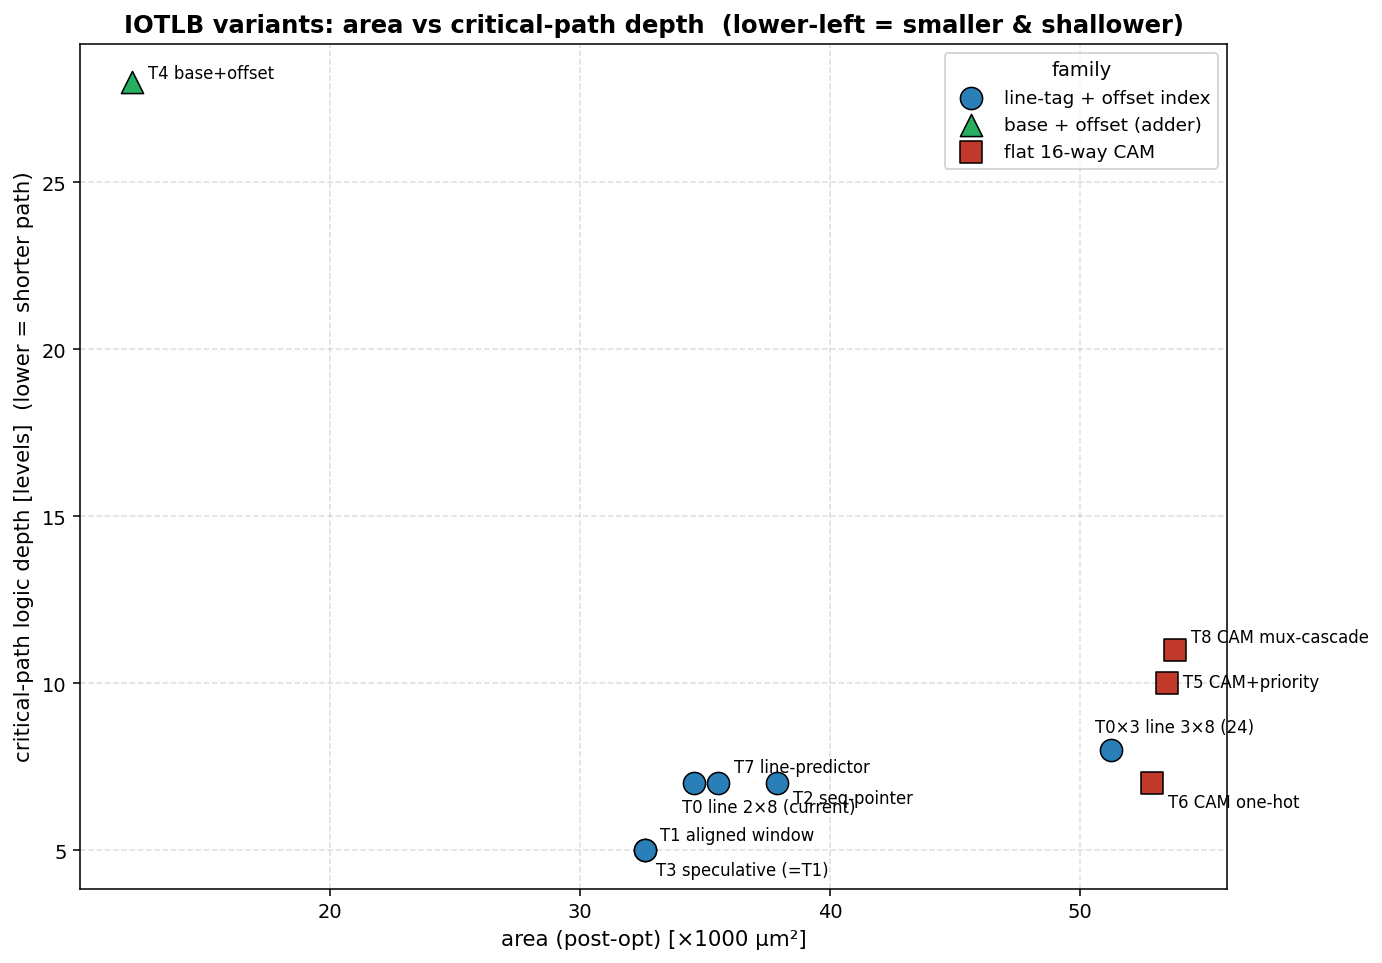
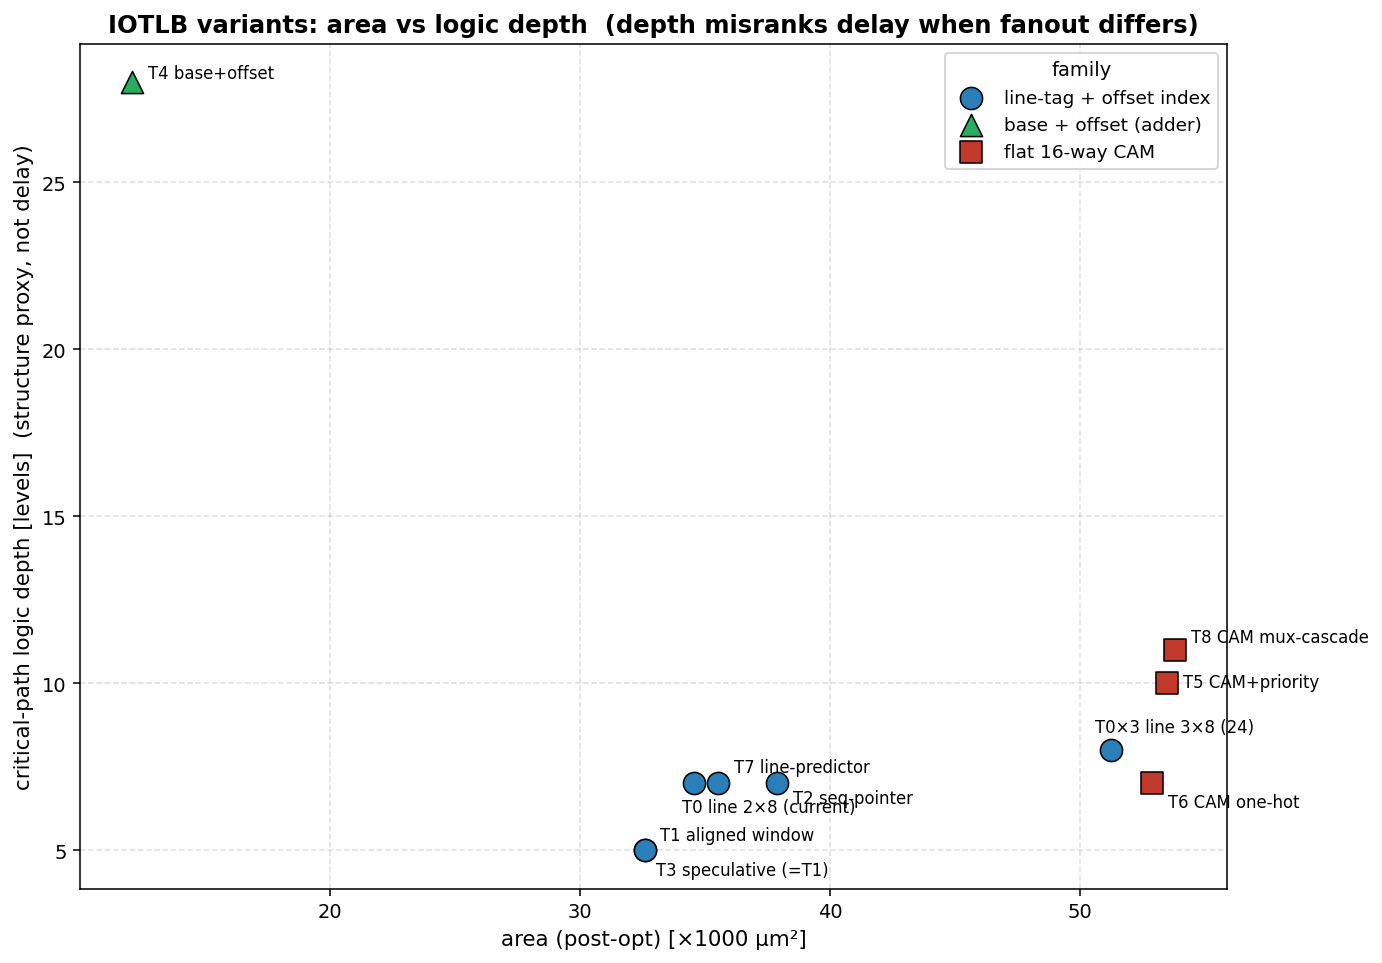
cache_study: add area-vs-critical-path-delay[ns] scatter (physical metric)
ns (= 1000/Fmax_postopt) is the physically accurate critical-path metric: same logic
depth can differ in delay by cell type / drive / fanout. Our own data proves it -- T8
(depth 11) is FASTER than T5 (depth 10) due to fanout, so depth misranks them. ns also
avoids the wire-rate confusion that 'MHz' invites. Add area_vs_delay.png as the PRIMARY
plot in both scripts (repo JSON-based + Colab inlined); keep Fmax (frequency view) and
depth (P&R-noise-robust structure proxy, with a caveat note). Absolute ns is optimistic
(ideal clock, no CTS/route) -> relative comparison.

Changed region(s): [[0.0622, 0.0, 0.8712, 0.0623], [0.0, 0.1558, 0.0311, 0.81]]

diff --git a/cache_study/figs/gen_iotlb_scatter.py b/cache_study/figs/gen_iotlb_scatter.py
@@ -34,7 +34,8 @@ FAM = {"line": ("#2a7fb8", "o", "line-tag + offset index"),
 rows = []
 for v, (lab, fam) in VARS.items():
     d = json.load(open(os.path.join(RES, f"{v}.json")))
-    rows.append(dict(lab=lab, fam=fam, area=d["area_um2"], fmax=d["fmax_mhz"], depth=d["logic_depth"]))
+    rows.append(dict(lab=lab, fam=fam, area=d["area_um2"], fmax=d["fmax_mhz"],
+                     depth=d["logic_depth"], delay=1000.0 / d["fmax_mhz"]))  # delay[ns]=1000/Fmax
 
 
 def label_offsets(rows, key):
@@ -51,6 +52,14 @@ def label_offsets(rows, key):
             "T6 CAM one-hot": (6, -13), "T8 CAM mux-cascade": (8, 3),
             "T5 CAM+priority": (8, -3), "T0×3 line 3×8 (24)": (-8, 9),
             "T4 base+offset": (8, 2),
+        }
+    elif key == "delay":
+        tweak = {
+            "T3 speculative (=T1)": (6, 6), "T1 aligned window": (6, -13),
+            "T0 line 2×8 (current)": (-6, 9), "T7 line-predictor": (8, -10),
+            "T2 seq-pointer": (8, 4), "T6 CAM one-hot": (8, 5),
+            "T8 CAM mux-cascade": (8, -3), "T5 CAM+priority": (8, 3),
+            "T6 CAM one-hot": (8, -13), "T0×3 line 3×8 (24)": (-10, 10), "T4 base+offset": (8, 2),
         }
     else:  # depth
         tweak = {
@@ -90,11 +99,19 @@ def scatter(key, ylabel, title, fname, ylim=None):
     print("wrote", p)
 
 
-# (1) area vs Fmax -- note arrows toward "better" (smaller area, higher Fmax)
+# (1) PRIMARY: area vs critical-path DELAY [ns] = 1000/Fmax -- the physically accurate
+#     metric (real cell-delay sum, not just levels). "ns" (not "MHz") also avoids the
+#     wire-rate confusion. NOTE: ideal-clock/no-CTS-route -> absolute ns optimistic, use
+#     for RELATIVE comparison.
+scatter("delay", "critical-path delay (post-opt, sky130 hd) [ns]  (lower = faster)",
+        "IOTLB variants: area vs critical-path delay  (lower-left = smaller & faster)",
+        "iotlb_area_delay.png")
+# (2) area vs Fmax (= 1000/delay; same info, frequency view)
 scatter("fmax", "Fmax (post-opt, sky130 hd) [MHz]",
         "IOTLB variants: area vs Fmax  (lower-left→upper-left = smaller & faster)",
         "iotlb_area_fmax.png")
-# (2) area vs logic depth -- workload-neutral structural metric (no wire-rate confusion)
-scatter("depth", "critical-path logic depth [levels]  (lower = shorter path)",
-        "IOTLB variants: area vs critical-path depth  (lower-left = smaller & shallower)",
+# (3) area vs logic depth -- STRUCTURE proxy (P&R-noise-robust). Beware: same depth !=
+#     same delay (T8 depth 11 is FASTER than T5 depth 10 due to fanout).
+scatter("depth", "critical-path logic depth [levels]  (structure proxy, not delay)",
+        "IOTLB variants: area vs logic depth  (depth misranks delay when fanout differs)",
         "iotlb_area_depth.png")

diff --git a/cache_study/figs/gen_iotlb_scatter_colab.py b/cache_study/figs/gen_iotlb_scatter_colab.py
@@ -31,6 +31,9 @@ OFFSETS = {
     "fmax": {"T1": (6, 6), "T3": (6, -13), "T0": (-6, -15), "T7": (8, 5),
              "T2": (8, -3), "T6": (6, -13), "T8": (8, 3), "T5": (8, -3),
              "T0x3": (-8, 9), "T4": (8, 2)},
+    "delay": {"T1": (6, -13), "T3": (6, 6), "T0": (-6, 9), "T7": (8, -10),
+              "T2": (8, 4), "T6": (8, 5), "T8": (8, -3), "T5": (8, 3),
+              "T0x3": (-10, 10), "T6": (8, -13), "T4": (8, 2)},
     "depth": {"T1": (8, 5), "T3": (6, -13), "T0": (-6, -15), "T7": (8, 6),
               "T2": (8, -10), "T6": (8, -12), "T8": (8, 4), "T5": (8, -2),
               "T0x3": (-8, 9), "T4": (8, 2)},
@@ -41,7 +44,8 @@ def scatter(metric_idx, key, ylabel, title, fname, save=True, show=False):
     fig, ax = plt.subplots(figsize=(10, 7))
     seen = set()
     for name, label, fam, area, fmax, depth in DATA:
-        y = (fmax, depth)[metric_idx]            # 0=fmax, 1=depth
+        # 0=fmax [MHz], 1=depth [levels], 2=critical-path delay [ns] = 1000/Fmax (physical)
+        y = (fmax, depth, 1000.0 / fmax)[metric_idx]
         c, m, leg = FAM[fam]
         ax.scatter(area / 1000.0, y, c=c, marker=m, s=130, edgecolor="black",
                    linewidth=0.8, zorder=3, label=(leg if fam not in seen else None))
@@ -63,11 +67,19 @@ def scatter(metric_idx, key, ylabel, title, fname, save=True, show=False):
     plt.close(fig)
 
 
-# (1) area vs Fmax
+# (1) PRIMARY: area vs critical-path DELAY [ns] -- the physically accurate metric (real
+#     cell-delay sum, not just levels). Saying "ns" (not "MHz") also avoids the wire-rate
+#     confusion. NOTE: ideal-clock / no-CTS-route post-place -> absolute ns is optimistic;
+#     use for RELATIVE comparison.
+scatter(2, "delay", "critical-path delay (post-opt, sky130 hd) [ns]  (lower = faster)",
+        "IOTLB variants: area vs critical-path delay  (lower-left = smaller & faster)",
+        "iotlb_area_delay.png", show=True)
+# (2) area vs Fmax (= 1000/delay; same info, frequency view)
 scatter(0, "fmax", "Fmax (post-opt, sky130 hd) [MHz]",
         "IOTLB variants: area vs Fmax  (lower-left->upper-left = smaller & faster)",
         "iotlb_area_fmax.png", show=True)
-# (2) area vs critical-path logic depth (workload-neutral; avoids the wire-rate confusion)
-scatter(1, "depth", "critical-path logic depth [levels]  (lower = shorter path)",
-        "IOTLB variants: area vs critical-path depth  (lower-left = smaller & shallower)",
+# (3) area vs critical-path logic depth -- STRUCTURE proxy (P&R-noise-robust). Beware:
+#     same depth != same delay; e.g. T8 depth 11 is FASTER than T5 depth 10 (fanout).
+scatter(1, "depth", "critical-path logic depth [levels]  (structure proxy, not delay)",
+        "IOTLB variants: area vs logic depth  (depth misranks delay when fanout differs)",
         "iotlb_area_depth.png", show=True)